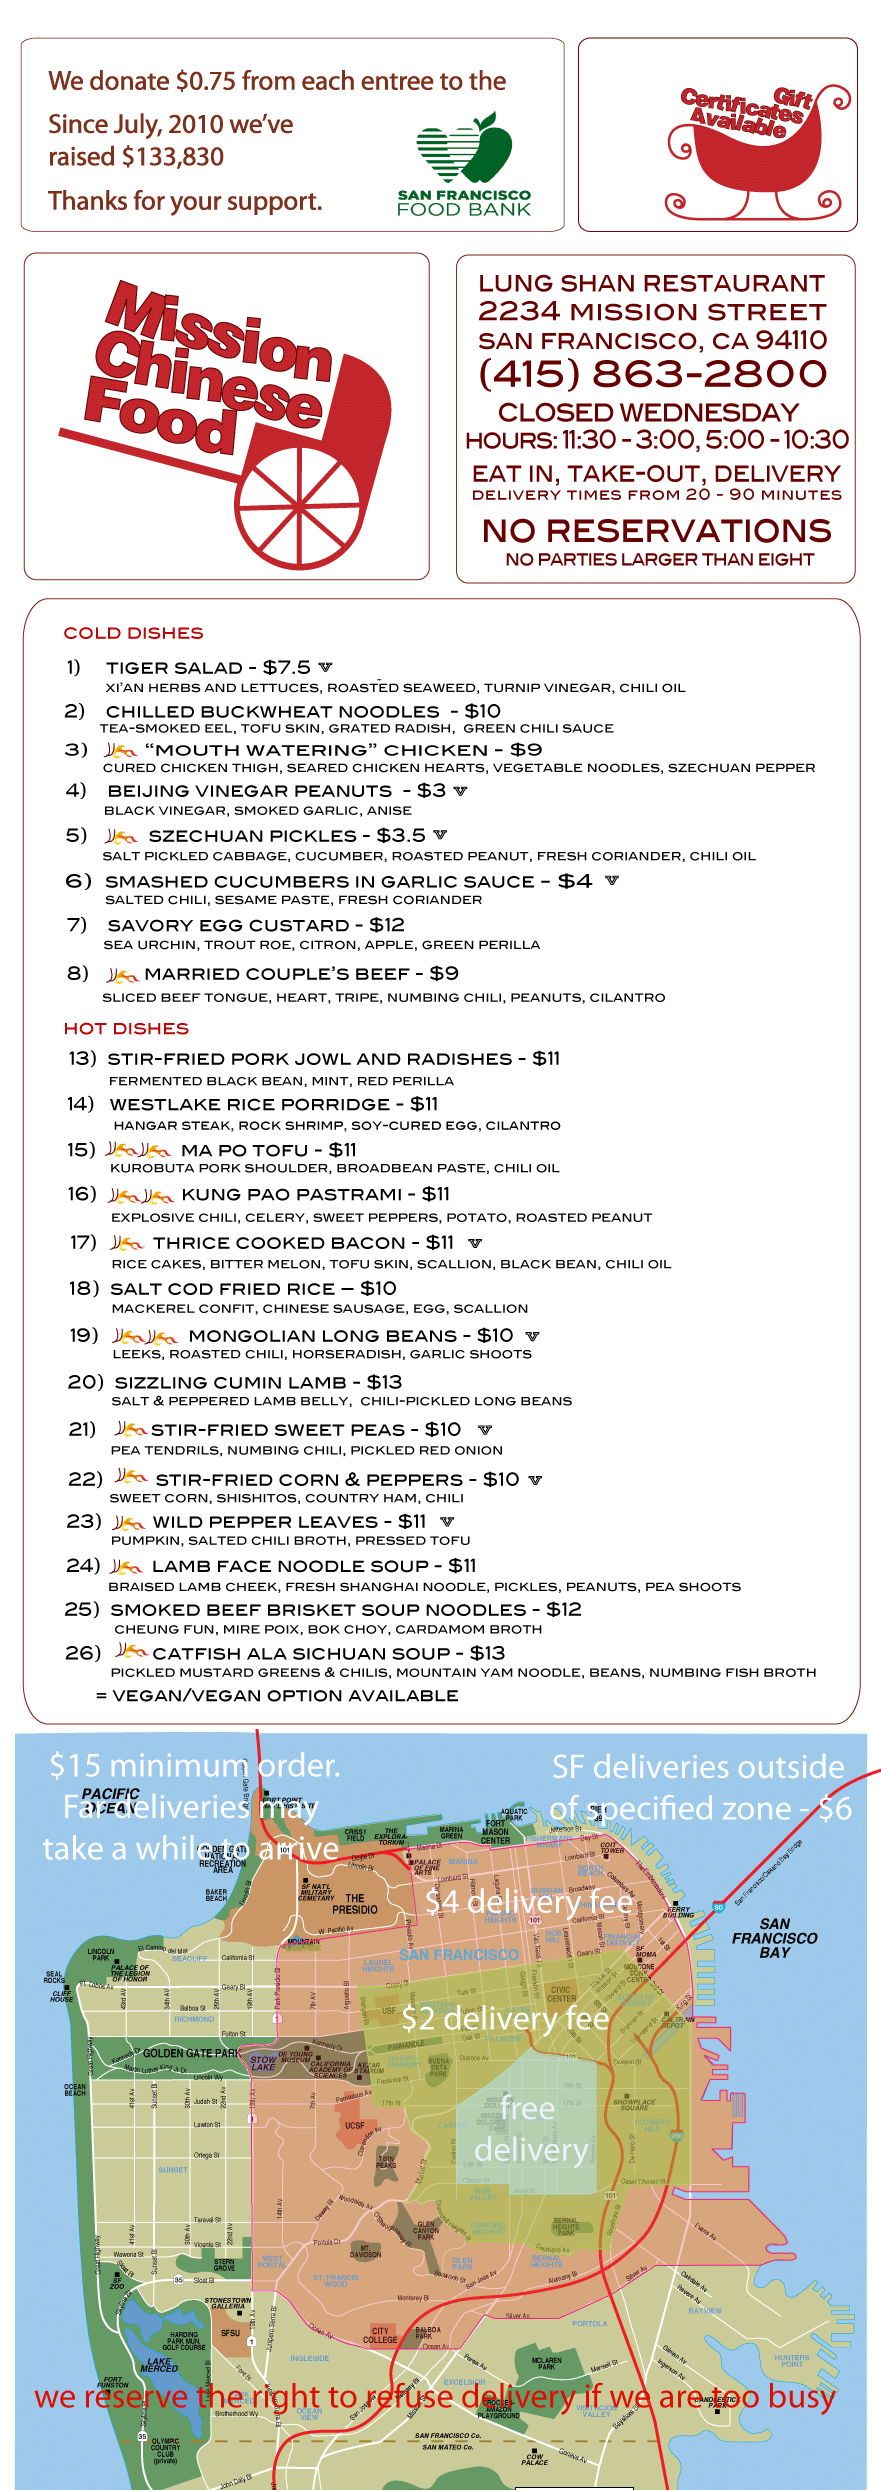
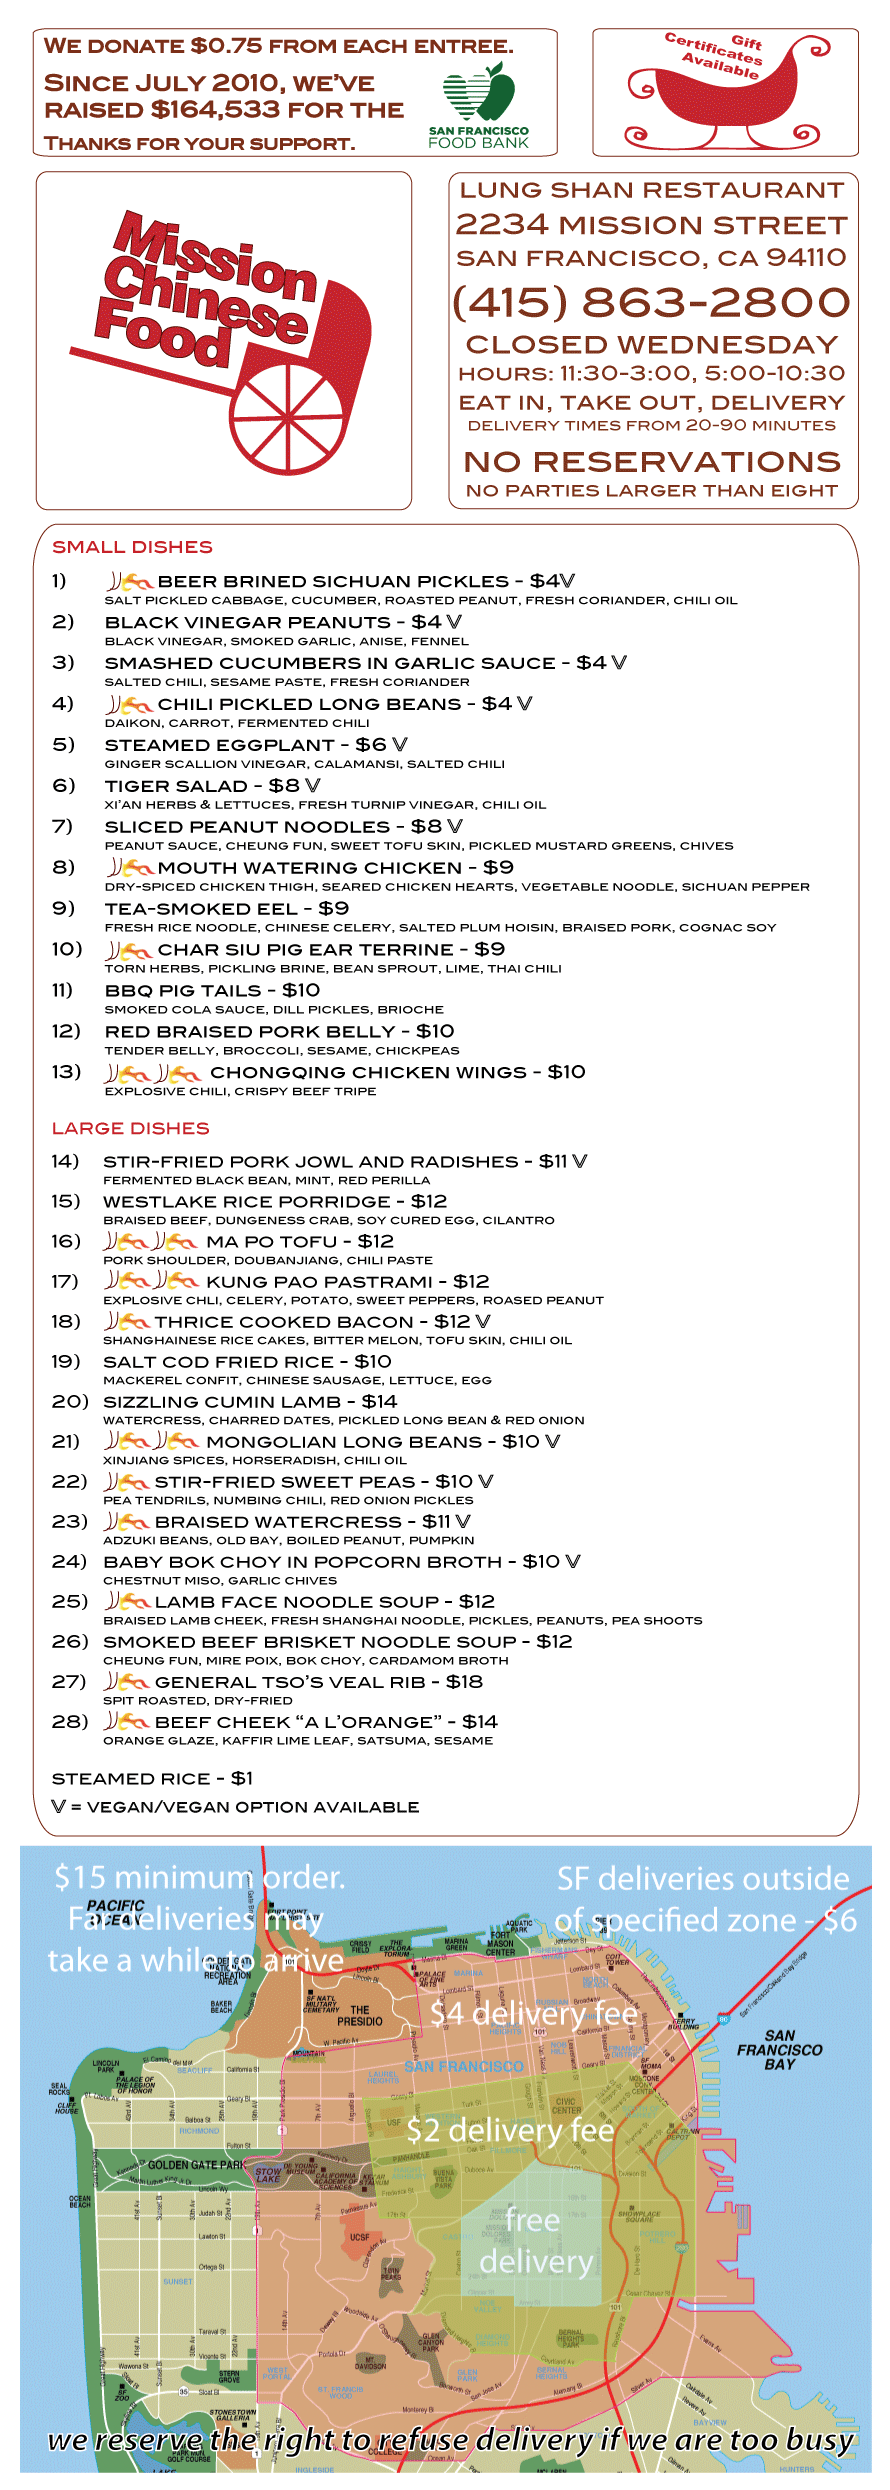
Update SF menu

diff --git a/sf/index.html b/sf/index.html
@@ -14,7 +14,6 @@ body { position:relative; padding:0; margin:0; }
 #menu {
        margin:0 auto;
        text-align: center;
-       width:881px;
 }
 #ninja { 
 	position:absolute; 
@@ -44,7 +43,7 @@ body { position:relative; padding:0; margin:0; }
 <body>
 
 <div id="menu">
-    <p><img src="/static/img/sfmenu.png" alt="Menu"  width="881" height="2490" /></p>
+    <img src="/static/img/sfmenu.png" alt="Menu"  width="890" height="2490" />
 </div>
 
 <div id="ninja"></div>
